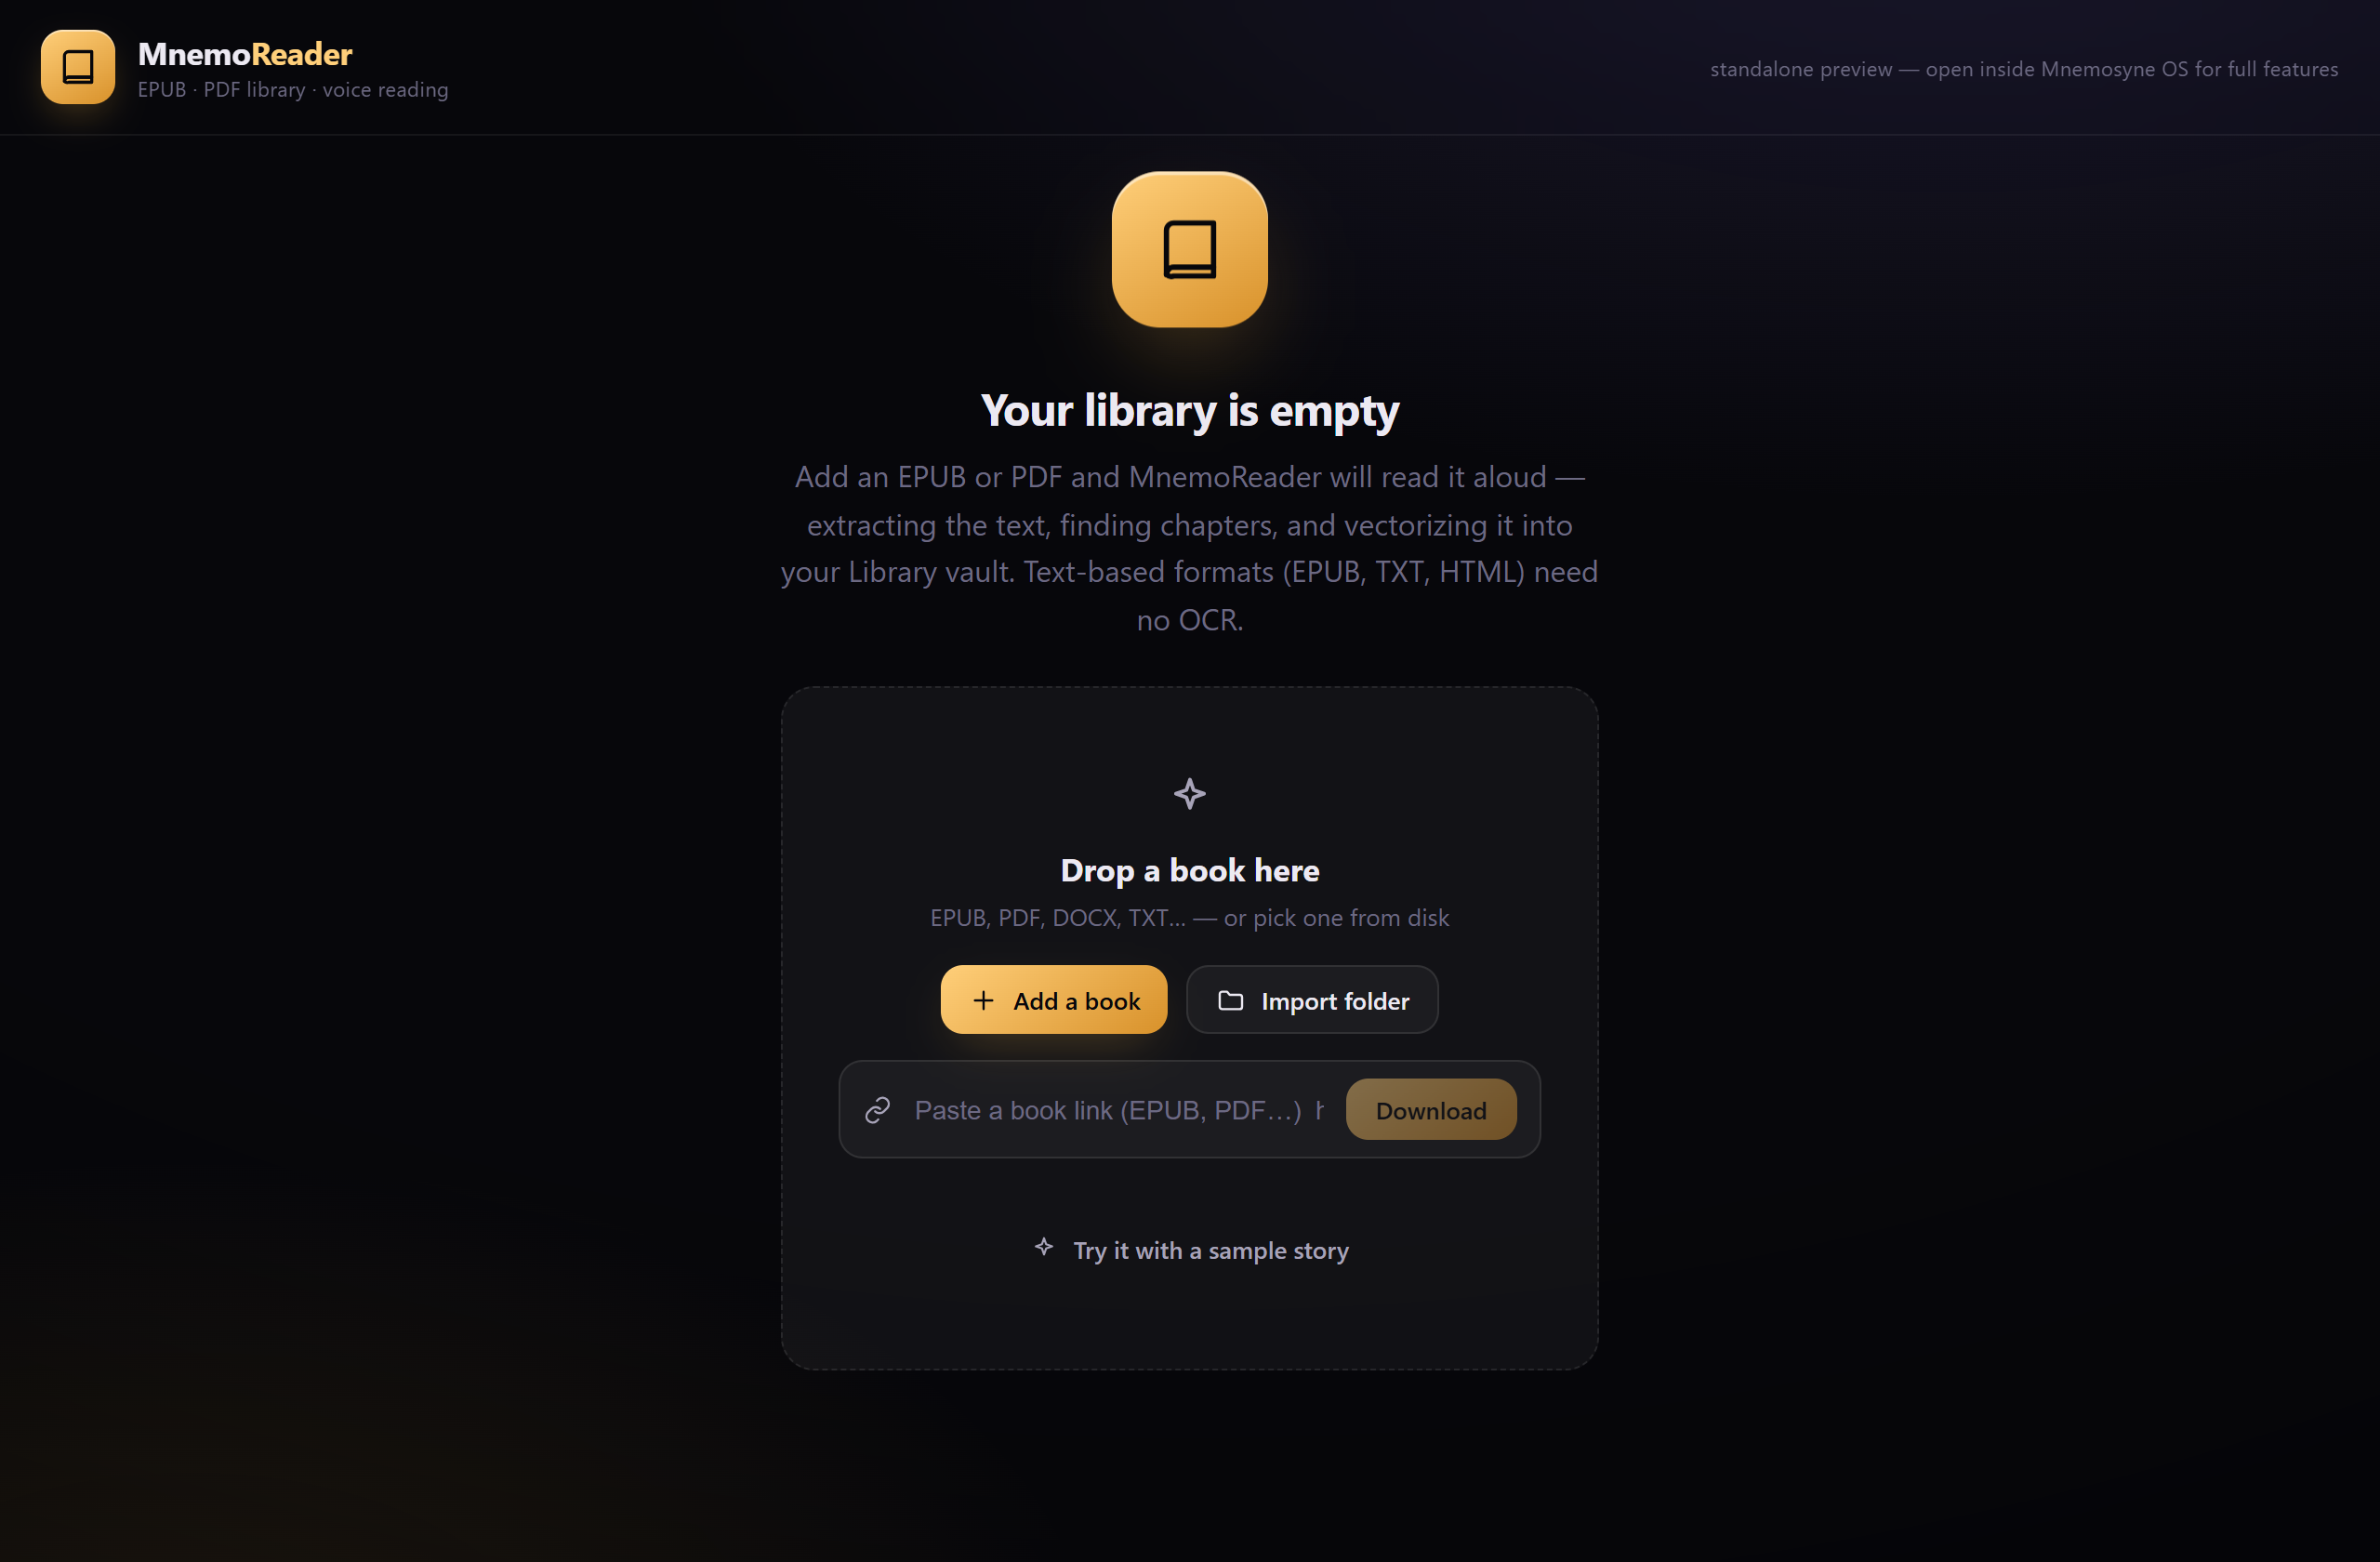
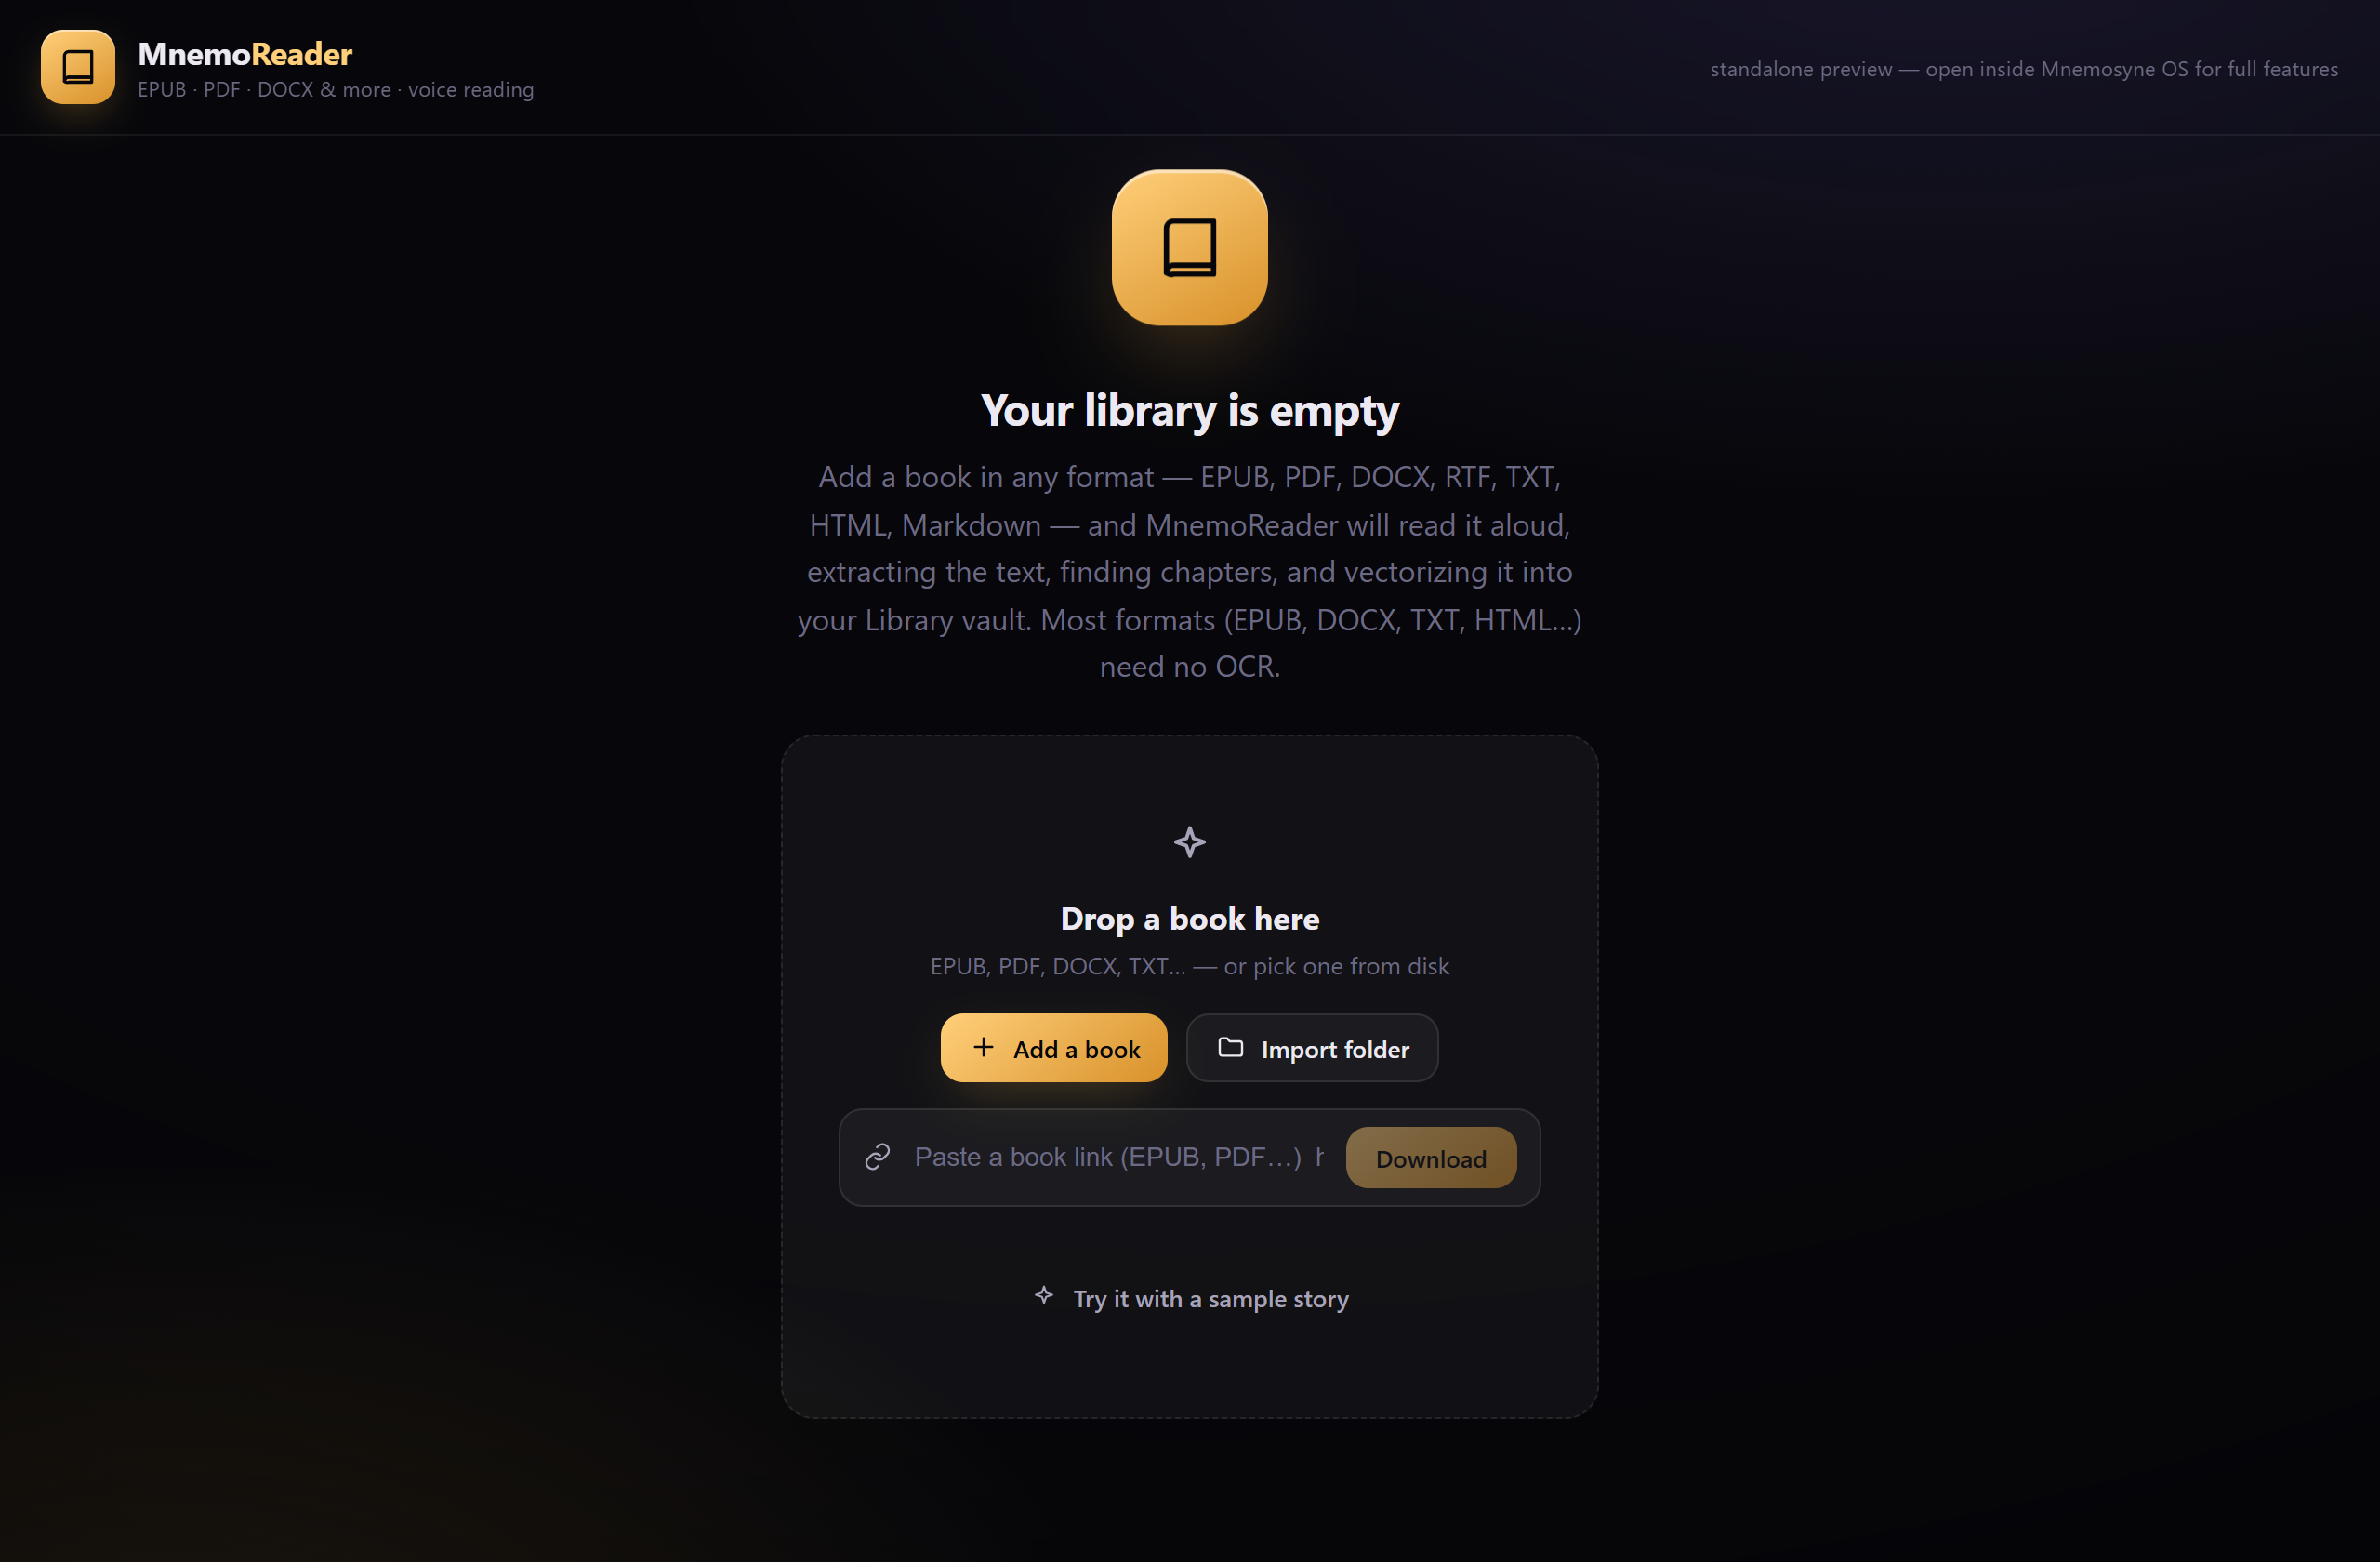
docs: reframe as a multi-format library (EPUB, PDF, DOCX and more)
Not just PDF — reads 12 formats with EPUB first-class. Updated the README,
manifest description/keywords, the app subtitle and library empty-state,
rebuilt dist, and re-captured the library screenshot.

diff --git a/src/components/Library.tsx b/src/components/Library.tsx
@@ -67,9 +67,9 @@ export function Library({ books, onOpen, onDelete, onAddFile, onAddFolder, onAdd
             <div className="empty-orb"><IconBook size={38} /></div>
             <h2 style={{ fontSize: 24, margin: '0 0 8px', letterSpacing: '-0.02em' }}>Your library is empty</h2>
             <p style={{ color: 'var(--text-faint)', margin: '0 0 24px', lineHeight: 1.6 }}>
-              Add an EPUB or PDF and MnemoReader will read it aloud — extracting the text, finding
-              chapters, and vectorizing it into your Library vault. Text-based formats (EPUB, TXT, HTML)
-              need no OCR.
+              Add a book in any format — EPUB, PDF, DOCX, RTF, TXT, HTML, Markdown — and MnemoReader
+              will read it aloud, extracting the text, finding chapters, and vectorizing it into your
+              Library vault. Most formats (EPUB, DOCX, TXT, HTML…) need no OCR.
             </p>
             <div
               className={`dropzone ${drag ? 'drag' : ''}`}

diff --git a/src/App.tsx b/src/App.tsx
@@ -332,7 +332,7 @@ export default function App() {
               <div className="brand-mark"><IconBook size={22} /></div>
               <div>
                 <div className="brand-name">Mnemo<b>Reader</b></div>
-                <div className="brand-sub">EPUB · PDF library · voice reading</div>
+                <div className="brand-sub">EPUB · PDF · DOCX & more · voice reading</div>
               </div>
             </div>
             <div className="topbar-spacer" />

diff --git a/README.md b/README.md
@@ -1,13 +1,13 @@
 # MnemoReader
 
-**A living PDF library with voice reading — a cartridge for [Mnemosyne OS](https://github.com/yaka0007/Mnemosyne-Neural-OS).**
+**A living book library with voice reading — EPUB, PDF, DOCX and more. A cartridge for [Mnemosyne OS](https://github.com/yaka0007/Mnemosyne-Neural-OS).**
 
 > [!IMPORTANT]
 > **MnemoReader is a cartridge — it runs inside Mnemosyne OS.** Install the host app first, then load this cartridge from MnemoHub (or link it in dev mode).
 >
 > [![Download latest release](https://img.shields.io/badge/⬇%20Download-Mnemosyne%20OS%20latest-0ea5e9?style=for-the-badge)](https://github.com/yaka0007/Mnemosyne-Neural-OS/releases/latest) &nbsp; [![Mnemosyne OS repository](https://img.shields.io/badge/GitHub-Mnemosyne%20OS-181717?style=for-the-badge&logo=github)](https://github.com/yaka0007/Mnemosyne-Neural-OS)
 
-Drop a PDF (or a whole folder) and MnemoReader:
+Drop a book — **EPUB, PDF, DOCX, RTF, TXT, HTML, Markdown…** — or a whole folder, and MnemoReader:
 
 - 📖 **Extracts the text** host-side (pdf-parse / mammoth — PDF, DOCX, TXT, MD…)
 - 🧠 **Vectorizes + archives** it into a dedicated **Library vault** (SHA-256 dedup, auto-spines)